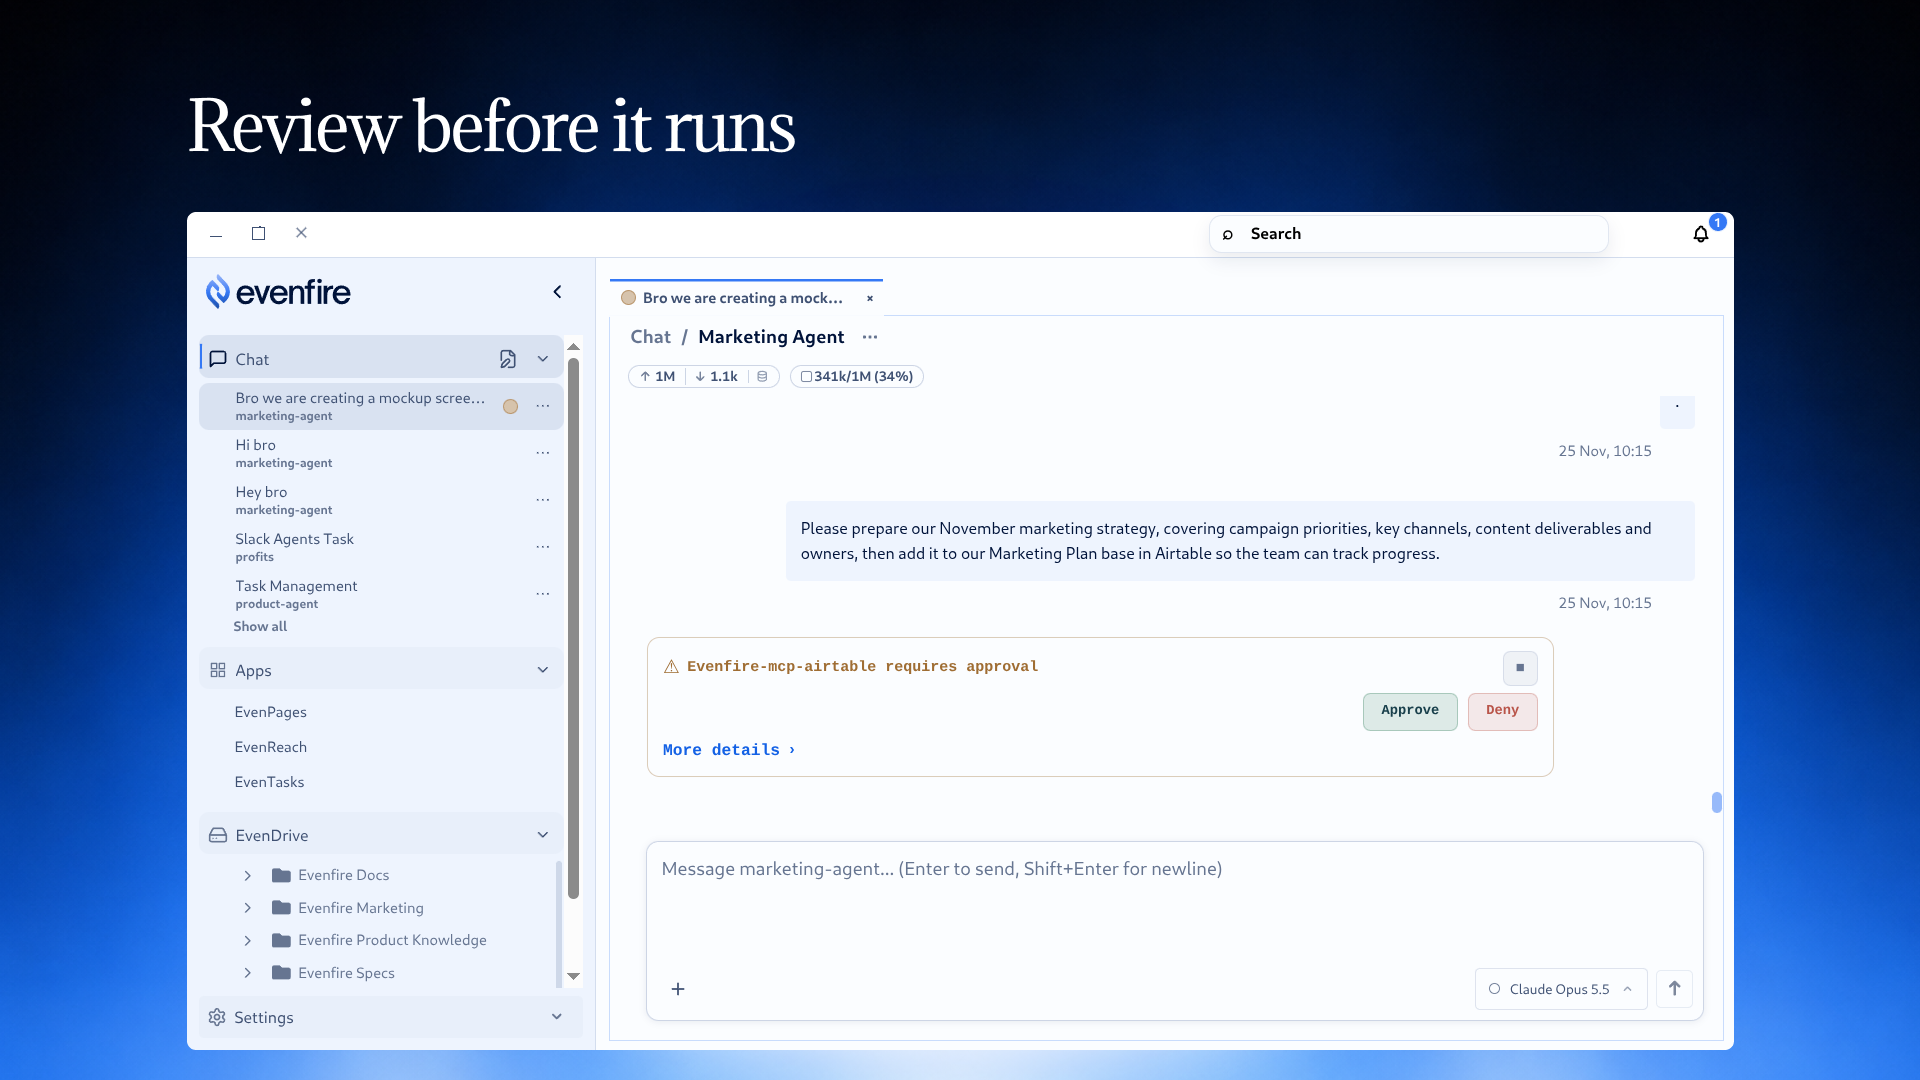
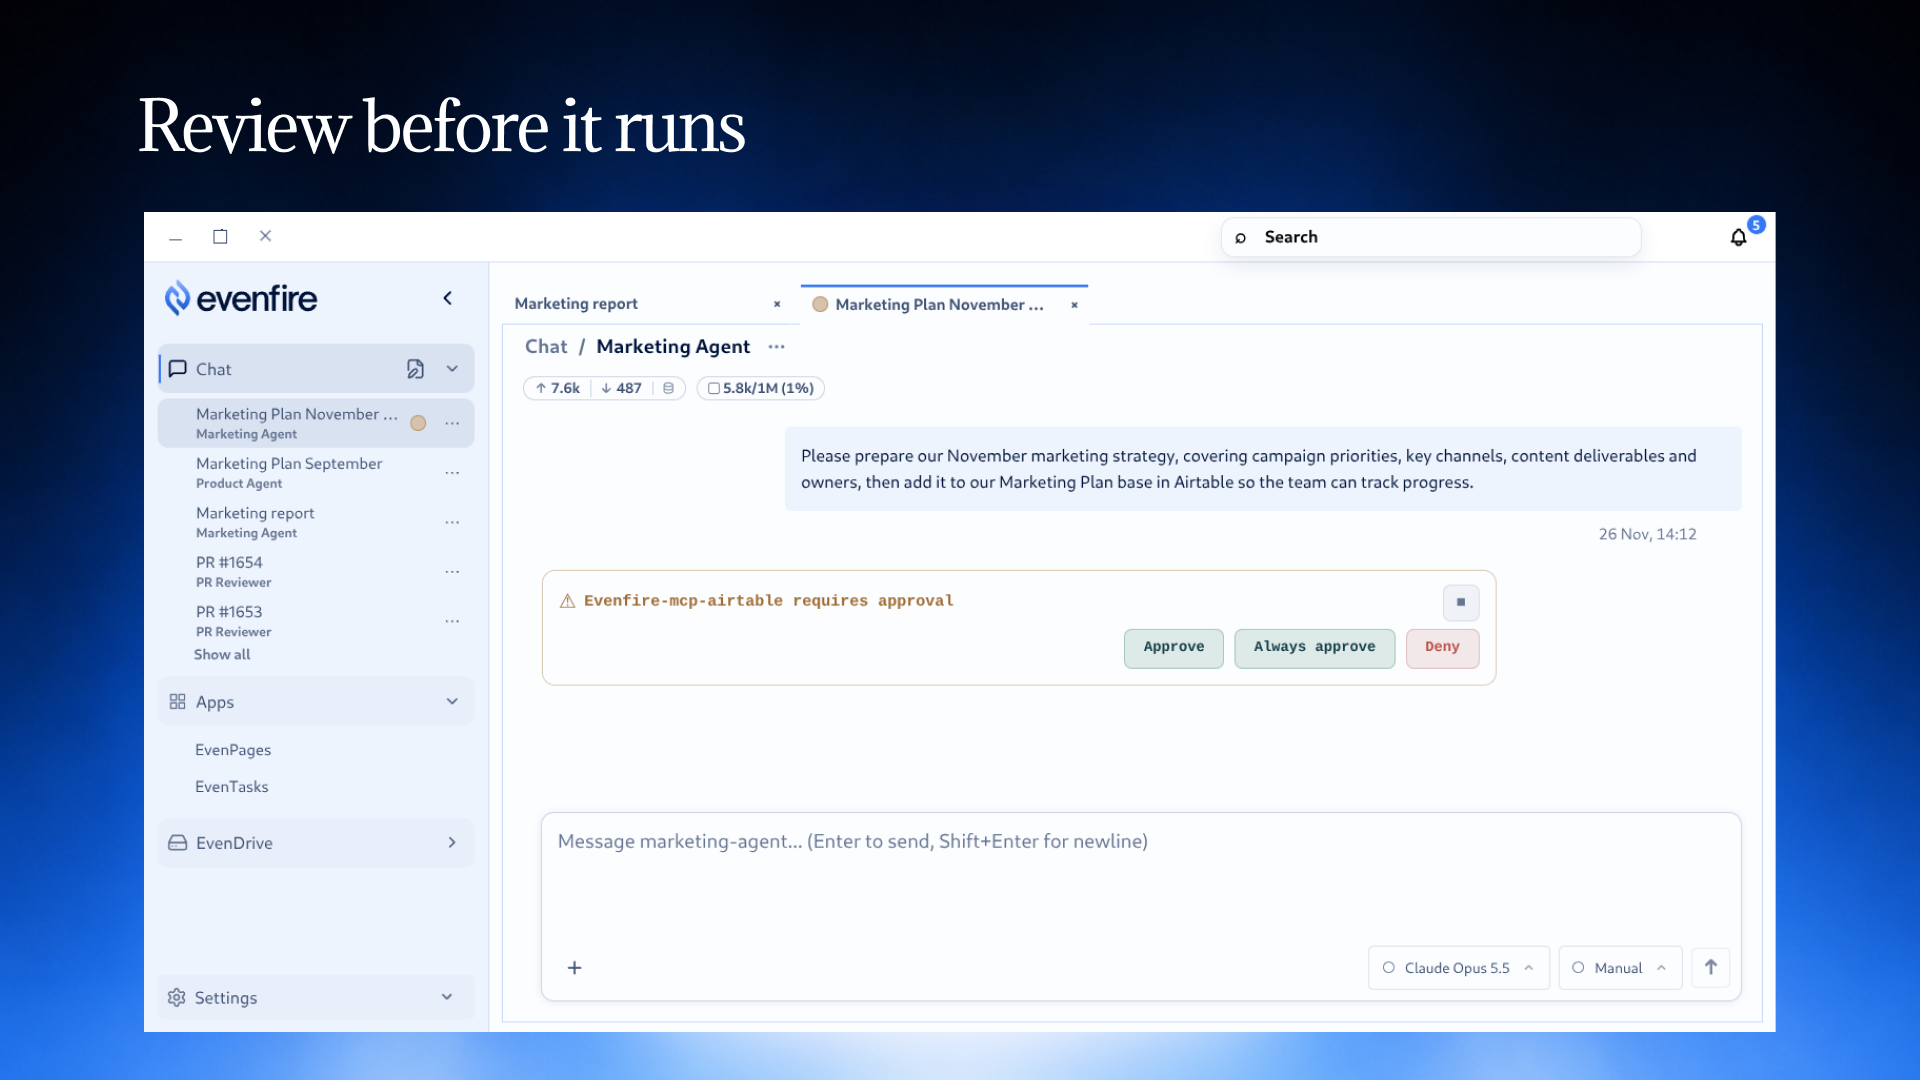
docs: refresh approval showcase image

diff --git a/docs/assets/readme/README.md b/docs/assets/readme/README.md
@@ -7,7 +7,7 @@ heading, explanatory copy and descriptive alt text.
 | File | Image copy | Screenshot |
 | --- | --- | --- |
 | `01-desktop-conversation.png` | Put your agents to work | A marketing agent conversation with a downloadable draft campaign brief. |
-| `02-human-approvals.png` | Review before it runs | An Airtable tool action awaiting approval, with Approve and Deny controls. |
+| `02-human-approvals.png` | Review before it runs | An Airtable tool action awaiting approval, with Approve, Always approve and Deny controls. |
 | `03-agent-configuration.png` | Define its role; Choose its model; Connect its tools; Share with your team; Control its access | The agent overview with its model, connectors, members and teams. |
 | `04-marketplace.png` | Connect the tools you use | The Marketplace connector catalog. |
 | `05-evendrive.png` | Share files with your agents; Work on them together | A folder sharing dialog with people, a team, an agent and an access selector. |

diff --git a/README.md b/README.md
@@ -50,11 +50,11 @@ produces from the same conversation.
 ### Approve tool actions before execution
 
 Configure which tool actions require approval, then review a request before
-allowing it to proceed. In Desktop, Approve and Deny controls let you make that
-decision in the conversation.
+allowing it to proceed. In Desktop, review and approve or deny each request
+directly in the conversation.
 
 <p align="center">
-  <img src="docs/assets/readme/02-human-approvals.png" alt="Marketing agent awaiting approval for an Airtable tool action, with Approve and Deny controls" width="100%">
+  <img src="docs/assets/readme/02-human-approvals.png" alt="Marketing agent awaiting approval for an Airtable tool action, with Approve, Always approve and Deny controls" width="100%">
 </p>
 
 [Configure approval policies](docs/how-to/configure-approvals.md).
